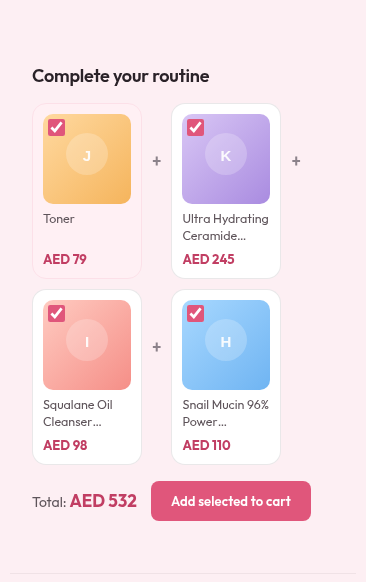
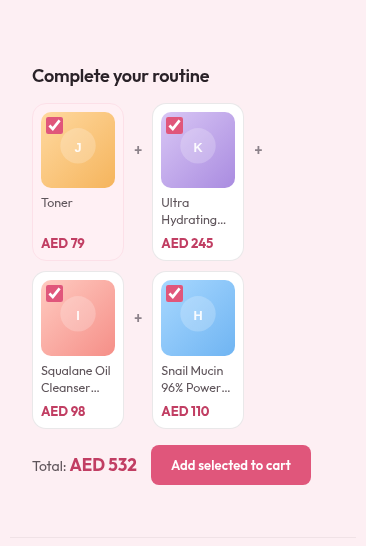
Lane CARD: two bundle tiles across a phone, not one
Measured at 320 after the FBT block got its stylesheet: the content box inside
.kbb-fbt is 230px and two tiles at the desktop thumbnail cost 2x(90+20) + a
10px gap + the `+` and its two gaps, about 254 -- so the strip wrapped to ONE
TILE PER ROW and "Complete your routine" ran to four stacked rows. Equal
height, and still not a bundle the shopper can see as a bundle, which is most
of what the module is for.

Below 400px the thumbnail is 76px and the padding 8. That is the only number
that moves: every track in the block is a calc() over its own row, so the
reservations follow it. Re-measured, one height at each width -- 157.94 at 320
and 390, 175.94 at 1280 -- and scrollWidth equals clientWidth at all three.

docs/card-shots/fbt-after-320.png is two across.

CardEqualHeightTest and StorefrontEnglishUnchangedTest: 18 passed.

Claude-Session: https://claude.ai/code/session_01CmowJLWcbxiie7sccsLiWq

diff --git a/public/build/assets/kbb-product-QkjAld9R.css b/public/build/assets/kbb-product-QkjAld9R.css
@@ -1,0 +1,1 @@
+:root{--bg:#ffffff;--cream:#FFF8F5;--pink-soft:#FFF0F4;--blush:#FCE0E8;--pink:#E0567B;--pink-deep:#C13E63;--pink-ink:#A82F53;--ink:#2A2228;--ink-2:#5E545A;--muted:#8C828A;--line:rgba(42,34,40,.1);--line-2:rgba(42,34,40,.06);--sale:#E23A4E;--gold:#BE8E2E;--green:#2E9E6B;--r-s:8px;--r-m:14px;--r-l:20px;--sh-s:0 1px 2px rgba(42,34,40,.05), 0 3px 10px rgba(42,34,40,.05);--sh-m:0 8px 26px rgba(42,34,40,.1);--sh-l:0 20px 60px rgba(42,34,40,.2);--sans:"Outfit", system-ui, -apple-system, Segoe UI, Roboto, sans-serif;--ease:cubic-bezier(.22,.61,.36,1)}*{margin:0;padding:0;box-sizing:border-box}body{font-family:var(--sans);color:var(--ink);line-height:1.5}button{font-family:inherit;cursor:pointer;border:none;background:none;color:inherit}a{color:inherit;text-decoration:none}::selection{background:var(--blush)}.wrap{max-width:var(--site-max);margin-inline:auto;padding-inline:var(--site-gutter)}.anno{background:var(--ink);color:#f6e9ee;font-size:12.5px;text-align:center;padding:8px 14px}.anno b{color:#fff}.head{position:sticky;top:0;z-index:60;background:#fff;border-bottom:1px solid var(--line-2)}.head-in{display:flex;align-items:center;gap:18px;height:68px;max-width:1180px;margin:0 auto;padding:0 20px}.logo{font-weight:800;font-size:21px;color:var(--pink-deep);letter-spacing:-.02em;white-space:nowrap}.logo span{color:var(--ink)}.search-in{flex:1;max-width:480px;display:flex;align-items:center;gap:10px;background:var(--cream);border:1.5px solid var(--line);border-radius:99px;padding:0 16px}.search-in svg{width:18px;height:18px;color:var(--muted)}.search-in input{flex:1;border:none;background:none;outline:none;font-size:14px;padding:11px 0}.tools{display:flex;align-items:center;gap:4px;margin-inline-start:auto}.tool{width:44px;height:44px;border-radius:12px;display:grid;place-items:center;position:relative;transition:.14s}.tool:hover{background:var(--pink-soft);color:var(--pink-deep)}.tool svg{width:22px;height:22px}.tool .ct{position:absolute;top:4px;inset-inline-end:4px;min-width:17px;height:17px;border-radius:99px;background:var(--pink);color:#fff;font-size:10px;font-weight:700;display:grid;place-items:center;padding:0 4px;border:2px solid #fff}.burger{display:none;width:44px;height:44px;border-radius:12px;place-items:center;color:var(--ink);background:none;border:none;cursor:pointer}.burger:hover{background:var(--pink-soft);color:var(--pink-deep)}.burger svg{width:24px;height:24px}.nav-links{display:flex;align-items:center;gap:20px}.nav-links a{color:var(--ink-2);text-decoration:none;font-size:14px;font-weight:500;white-space:nowrap;transition:.14s var(--ease)}.nav-links a:hover{color:var(--pink-deep)}.mnav{position:fixed;top:0;inset-inline-start:0;height:100%;width:300px;max-width:85vw;background:#fff;z-index:110;transform:translate(-100%);transition:.3s var(--ease);display:flex;flex-direction:column;padding:20px}[dir=rtl] .mnav{transform:translate(100%)}.mnav.on{transform:translate(0)}.mnav-h{display:flex;align-items:center;justify-content:space-between;margin-bottom:14px}.mnav-x{width:40px;height:40px;border-radius:10px;display:grid;place-items:center;font-size:20px;color:var(--ink-2);background:none;border:none;cursor:pointer}.mnav a{display:block;padding:14px 6px;color:var(--ink);text-decoration:none;font-size:15px;font-weight:500;border-bottom:1px solid var(--line-2)}.mnav a:hover{color:var(--pink-deep)}.navov{position:fixed;top:0;right:0;bottom:0;left:0;background:#2a22286b;z-index:105;opacity:0;visibility:hidden;transition:.3s var(--ease)}.navov.on{opacity:1;visibility:visible}@media (max-width:760px){.search-in,.nav-links{display:none}.burger{display:grid}.logo{font-size:17px}}.crumb{font-size:12.5px;color:var(--muted);padding:18px 0 0}.crumb a:hover{color:var(--pink-deep)}.pdp{display:grid;grid-template-columns:1.05fr 1fr;gap:42px;padding:22px 0 50px}@media (max-width:880px){.pdp{grid-template-columns:minmax(0,1fr);gap:26px}}.gallery{position:sticky;top:84px;align-self:start}@media (max-width:880px){.gallery{position:static}}.gmain{position:relative;aspect-ratio:1;border-radius:var(--r-l);display:grid;place-items:center;overflow:hidden;border:1px solid var(--line-2)}.gmain .cap{font-size:13px;font-weight:700;color:#2a22285c;letter-spacing:.04em;text-align:center;padding:0 20px}.gmain-img{position:absolute;top:0;right:0;bottom:0;left:0;width:100%;height:100%;object-fit:contain;display:block}.lbl{position:absolute;display:inline-flex;align-items:center;gap:4px;font-size:11px;font-weight:800;color:#fff;padding:5px 10px;border-radius:8px;box-shadow:0 4px 12px #00000029;z-index:2}[dir=rtl] .gmain .lbl{inset-inline-start:14px!important;inset-inline-end:auto!important}.gwish{position:absolute;top:14px;inset-inline-end:14px;width:40px;height:40px;border-radius:50%;background:#ffffffeb;-webkit-backdrop-filter:blur(4px);backdrop-filter:blur(4px);display:grid;place-items:center;z-index:3;box-shadow:var(--sh-s)}.gwish svg{width:19px;height:19px;color:var(--ink-2)}.gwish.on svg{color:var(--pink);fill:var(--pink)}.gthumbs{display:flex;gap:10px;margin-top:12px;flex-wrap:wrap}.gthumb{width:66px;height:66px;border-radius:12px;border:2px solid transparent;display:grid;place-items:center;font-size:9px;font-weight:700;color:#2a222873;cursor:pointer;transition:.14s;overflow:hidden}.gthumb.on{border-color:var(--pink)}.gthumb.vid{position:relative}.gthumb.vid:after{content:"▶";position:absolute;font-size:14px;color:#fff;background:#00000059;width:24px;height:24px;border-radius:50%;display:grid;place-items:center;z-index:2}.gthumb{position:relative}.gthumb-img{position:absolute;top:0;right:0;bottom:0;left:0;width:100%;height:100%;object-fit:cover;display:block}.bb-brand{font-size:12px;font-weight:700;color:var(--pink-deep);text-transform:uppercase;letter-spacing:.05em}.bb-title{font-size:25px;font-weight:600;letter-spacing:-.01em;line-height:1.28;margin:7px 0 11px}.cap-area{margin:2px 0 9px}.cap-area:empty{display:none}.sr-capbar{display:inline-flex;align-items:center;gap:7px;padding:5px 12px;border-radius:999px;text-decoration:none;background:var(--card,#fff);border:1px solid var(--line);font-size:13px;white-space:nowrap;line-height:1.4;cursor:pointer;transition:transform .2s var(--ease),box-shadow .2s var(--ease)}.sr-capbar:hover{transform:translateY(-1px);box-shadow:0 6px 16px -10px #00000059}.sr-cap-heart{color:#e8607f}.sr-cap-stars{letter-spacing:1px}.sr-cap-avg{font-weight:650;color:var(--ink)}.sr-cap-count{color:var(--ink-2)}@media (prefers-reduced-motion: reduce){.sr-capbar,.sr-capbar:hover{transition:none;transform:none}}.bb-rate{display:flex;align-items:center;gap:8px;font-size:13px;color:var(--ink-2);margin-bottom:14px}.stars{color:#e3d9c4;font-size:15px;letter-spacing:1px}.stars .f{color:var(--gold)}.bb-rate a{color:var(--pink-deep);text-decoration:underline}.bb-price{display:flex;align-items:baseline;gap:10px;margin-bottom:5px}.bb-price b{font-size:28px;font-weight:800}.bb-price s{font-size:17px;color:var(--muted);font-weight:500}.bb-price .off{font-size:12px;font-weight:700;color:#fff;background:var(--sale);padding:3px 8px;border-radius:7px}.bb-vat{font-size:11.5px;color:var(--muted);margin-bottom:16px}.bb-desc{font-size:14px;color:var(--ink-2);line-height:1.65;margin-bottom:20px}.pdp .bb-desc{margin-block:12px 18px}.opt-label{font-size:12.5px;font-weight:700;margin-bottom:9px;display:flex;justify-content:space-between}.opt-label span{font-weight:500;color:var(--muted)}.variants{display:flex;flex-direction:column;gap:9px;margin-bottom:22px}.variant{display:flex;align-items:center;gap:12px;border:1.5px solid var(--line);border-radius:13px;padding:13px 15px;cursor:pointer;transition:.14s}.variant:hover{border-color:var(--pink)}.variant.on{border-color:var(--pink);background:var(--pink-soft)}.variant .vr{width:18px;height:18px;border-radius:50%;border:2px solid var(--line);flex-shrink:0;display:grid;place-items:center}.variant.on .vr{border-color:var(--pink)}.variant.on .vr:after{content:"";width:9px;height:9px;border-radius:50%;background:var(--pink)}.variant .vn{font-size:13.5px;font-weight:600;flex:1}.variant .vp{font-weight:700}.variant .vp s{font-size:11px;color:var(--muted);font-weight:500;margin-inline-end:5px}.variant .vtag{font-size:10px;font-weight:700;color:var(--green);background:#e6f6ee;padding:3px 7px;border-radius:6px;margin-inline-start:6px}.variant.oos{opacity:.5;cursor:not-allowed}.variant.oos .vn{text-decoration:line-through}.variant .vtag.sold{color:var(--sale);background:#fdecee}.variant .vsw{width:22px;height:22px;border-radius:50%;flex-shrink:0;background-size:cover;background-position:center;border:1px solid var(--line)}.buyrow{display:flex;gap:12px;margin-bottom:14px}.qty{display:inline-flex;align-items:center;border:1.5px solid var(--line);border-radius:13px}.qty button{width:46px;height:54px;display:grid;place-items:center;font-size:20px;color:var(--ink-2)}.qty button:hover{color:var(--pink-deep)}.qty span{min-width:36px;text-align:center;font-size:15px;font-weight:700}.addcart{flex:1;height:54px;border-radius:13px;background:var(--pink);color:#fff;font-size:15.5px;font-weight:700;display:flex;align-items:center;justify-content:center;gap:9px;transition:.16s}.addcart:hover{background:var(--pink-deep)}.addcart svg{width:19px;height:19px}.buynow{width:100%;height:50px;border-radius:13px;border:1.5px solid var(--ink);font-weight:700;font-size:14.5px;margin-bottom:18px;transition:.14s}.buynow:hover{background:var(--ink);color:#fff}.stockline{display:flex;align-items:center;gap:8px;font-size:13px;color:var(--green);font-weight:600;margin-bottom:6px}.stockline .dot{width:8px;height:8px;border-radius:50%;background:var(--green)}.stockline.out{color:var(--sale)}.stockline.out .dot{background:var(--sale)}.deliver{font-size:13px;color:var(--ink-2);margin-bottom:18px}.deliver b{color:var(--ink)}.trust{display:grid;grid-template-columns:1fr 1fr;gap:11px;padding:16px;background:var(--cream);border-radius:14px}.trust .ti{display:flex;align-items:center;gap:9px;font-size:12px;color:var(--ink-2);font-weight:500}.trust .ti svg{width:18px;height:18px;color:var(--pink-deep);flex-shrink:0}.paychips{display:flex;gap:6px;margin-top:13px;flex-wrap:wrap}.paychips span{font-size:10.5px;font-weight:700;color:var(--ink-2);border:1px solid var(--line);border-radius:6px;padding:4px 9px}.sec{padding:34px 0;border-top:1px solid var(--line-2)}.eyebrow{font-size:11px;font-weight:700;letter-spacing:.22em;text-transform:uppercase;color:var(--pink);margin-bottom:7px}.sec h2{font-size:22px;font-weight:600;letter-spacing:-.01em;margin-bottom:18px}.acc{border:1px solid var(--line-2);border-radius:var(--r-m);overflow:hidden;max-width:820px}.acc-i{border-bottom:1px solid var(--line-2)}.acc-i:last-child{border-bottom:0}.acc-h{width:100%;display:flex;align-items:center;justify-content:space-between;padding:17px 20px;font-size:14.5px;font-weight:600;text-align:start}.acc-h:hover{color:var(--pink-deep)}.acc-h .pm{font-size:20px;color:var(--pink-deep);transition:.2s}.acc-i.open .acc-h .pm{transform:rotate(45deg)}.acc-b{max-height:0;overflow:hidden;transition:max-height .3s var(--ease)}.acc-b-in{padding:0 20px 20px;font-size:13.5px;color:var(--ink-2);line-height:1.7}.acc-b-in ul{margin:6px 0 0 18px}.acc-b-in li{margin-bottom:5px}.rev-top{display:grid;grid-template-columns:200px 1fr;gap:34px;align-items:center;max-width:760px;margin-bottom:26px}@media (max-width:600px){.rev-top{grid-template-columns:1fr;gap:16px}}.rev-score{text-align:center}.rev-score .big{font-size:48px;font-weight:800;line-height:1}.rev-score .stars{font-size:18px}.rev-score small{color:var(--muted);font-size:12.5px}.rbar{display:flex;align-items:center;gap:10px;font-size:12px;color:var(--ink-2);margin-bottom:6px}.rbar .t{width:38px}.rbar .track{flex:1;height:7px;background:var(--pink-soft);border-radius:99px;overflow:hidden}.rbar .track i{display:block;height:100%;background:var(--gold);border-radius:99px}.rbar .n{width:34px;text-align:end;color:var(--muted)}.review{padding:18px 0;border-top:1px solid var(--line-2);max-width:760px}.review .rh{display:flex;align-items:center;gap:10px;margin-bottom:7px}.review .av{width:36px;height:36px;border-radius:50%;background:var(--pink-soft);color:var(--pink-deep);display:grid;place-items:center;font-weight:700;font-size:13px}.review .nm{font-size:13.5px;font-weight:600}.review .vf{font-size:10.5px;font-weight:700;color:var(--green);background:#e6f6ee;padding:2px 7px;border-radius:6px}.review .dt{font-size:11.5px;color:var(--muted);margin-inline-start:auto}.review .rt{font-size:13.5px;color:var(--ink-2);line-height:1.65}.writebtn{margin-top:18px;border:1.5px solid var(--pink);color:var(--pink-deep);font-weight:600;font-size:14px;padding:11px 22px;border-radius:99px}.writebtn:hover{background:var(--pink-soft)}.dtabbar{display:flex;gap:4px;border-bottom:1px solid var(--line-2);margin-bottom:18px;overflow-x:auto}.dtab{font-size:14px;font-weight:600;color:var(--ink-2);padding:12px 16px;border-bottom:2px solid transparent;white-space:nowrap}.dtab:hover{color:var(--pink-deep)}.dtab.on{color:var(--pink-deep);border-color:var(--pink)}.dpanel{max-width:820px}.dcontent{font-size:13.5px;color:var(--ink-2);line-height:1.7;position:relative}.dcontent.clamp{max-height:104px;overflow:hidden}.dcontent.clamp:after{content:"";position:absolute;inset-inline-start:0;inset-inline-end:0;bottom:0;height:56px;background:linear-gradient(transparent,#fff)}.dcontent ul{margin:6px 0 0 18px}.dcontent li{margin-bottom:5px}.readmore{margin-top:11px;color:var(--pink-deep);font-weight:600;font-size:13px}.readmore:hover{text-decoration:underline}.macc{display:none}.macc-i{border-bottom:1px solid var(--line-2)}.macc-h{width:100%;display:flex;align-items:center;justify-content:space-between;padding:15px 2px;font-size:14.5px;font-weight:600;text-align:start}.macc-h .pm{position:relative;flex:0 0 auto;width:15px;height:15px;margin-inline-start:12px;font-size:0;line-height:0;color:transparent}.macc-h .pm:before,.macc-h .pm:after{content:"";position:absolute;top:50%;inset-inline-start:0;width:15px;height:2px;margin-top:-1px;border-radius:2px;background:var(--pink-deep);transition:transform .2s var(--ease)}.macc-h .pm:after{transform:rotate(90deg)}.macc-i.open .macc-h .pm{transform:none}.macc-i.open .macc-h .pm:after{transform:rotate(0)}.macc-b{display:none;padding:0 2px 16px}.macc-i.open .macc-b{display:block}@media (max-width:720px){.dtabbar,.dpanel{display:none}.macc{display:block}}.rfilters{display:flex;flex-wrap:wrap;gap:7px;margin-bottom:18px}.rfilter{font-size:12.5px;font-weight:600;color:var(--ink-2);padding:7px 13px;border-radius:99px;border:1px solid var(--line);background:#fff;transition:.14s}.rfilter:hover{border-color:var(--pink)}.rfilter.on{background:var(--pink-soft);color:var(--pink-deep);border-color:transparent}.rgrid{column-count:4;column-gap:16px}@media (max-width:1080px){.rgrid{column-count:3}}@media (max-width:760px){.rgrid{column-count:2;column-gap:12px}}.rcard{break-inside:avoid;-webkit-column-break-inside:avoid;border:1px solid var(--line-2);border-radius:14px;padding:14px;cursor:pointer;transition:.16s;background:#fff;margin:0 0 16px;display:flex;flex-direction:column;gap:8px}.rcard:hover{box-shadow:var(--sh-m)}.rcard .rh{display:flex;align-items:center;gap:8px}.rcard .av{width:30px;height:30px;border-radius:50%;background:var(--pink-soft);color:var(--pink-deep);display:grid;place-items:center;font-weight:700;font-size:11px;flex-shrink:0}.rcard .nm{font-size:12.5px;font-weight:600;line-height:1.1}.rcard .vf{font-size:9.5px;font-weight:700;color:var(--green)}.rcard .rstars{font-size:12px;margin-inline-start:auto;flex-shrink:0}.rphotos{display:flex;gap:5px;flex-wrap:wrap}.rphotos .rp{width:46px;height:46px;border-radius:8px;position:relative;overflow:hidden;flex-shrink:0}.rphotos .more{position:absolute;top:0;right:0;bottom:0;left:0;background:#2a222885;color:#fff;display:grid;place-items:center;font-weight:700;font-size:12px}.rcard .rtext{font-size:12.5px;color:var(--ink-2);line-height:1.55}.rcard .rf{display:flex;align-items:center;justify-content:space-between;font-size:11px;color:var(--muted)}.rcard .cnt{display:inline-flex;align-items:center;gap:4px}.sheet-bg{position:fixed;top:0;right:0;bottom:0;left:0;background:#2a222880;-webkit-backdrop-filter:blur(3px);backdrop-filter:blur(3px);z-index:100;opacity:0;visibility:hidden;transition:.25s}.sheet-bg.on{opacity:1;visibility:visible}.sheet{position:fixed;inset-inline-start:0;inset-inline-end:0;bottom:0;background:#fff;z-index:101;border-radius:22px 22px 0 0;max-height:92vh;overflow-y:auto;transform:translateY(100%);transition:.32s var(--ease);box-shadow:var(--sh-l)}.sheet.on{transform:none}.sheet .sh-h{display:flex;align-items:center;padding:20px 22px 8px;max-width:520px;margin:0 auto}.sheet .sh-h b{font-size:18px;font-weight:700}.sheet .sh-h .x{margin-inline-start:auto;width:36px;height:36px;border-radius:9px;display:grid;place-items:center;color:var(--ink-2);font-size:18px}.sheet .sh-b{padding:8px 22px 26px;max-width:520px;margin:0 auto}.sheet .fld{margin-bottom:14px}.sheet .fld label{display:block;font-size:12.5px;font-weight:600;margin-bottom:6px}.sheet .fld input,.sheet .fld textarea{width:100%;border:1.5px solid var(--line);border-radius:11px;padding:11px 13px;font-size:14px;font-family:inherit}.sheet .fld input:focus,.sheet .fld textarea:focus{outline:0;border-color:var(--pink);box-shadow:0 0 0 3px var(--pink-soft)}.starpick{display:flex;gap:4px;font-size:30px;color:#e3d9c4;cursor:pointer}.starpick span.on{color:var(--gold)}.photodrop{border:1.5px dashed var(--line);border-radius:12px;padding:18px;text-align:center;color:var(--muted);font-size:12.5px;cursor:pointer}.cap-row{display:flex;align-items:center;gap:10px;font-size:14px;font-weight:600}.cap-row input{width:88px}.sheet .submit{width:100%;height:52px;border-radius:13px;background:var(--pink);color:#fff;font-size:15px;font-weight:700;margin-top:6px}.sheet .submit:hover{background:var(--pink-deep)}.hp{position:absolute;left:-9999px}[dir=rtl] .hp{inset-inline-start:-9999px;inset-inline-end:auto}.rpbg{position:fixed;top:0;right:0;bottom:0;left:0;background:#2a22288c;-webkit-backdrop-filter:blur(4px);backdrop-filter:blur(4px);z-index:100;display:none;place-items:center;padding:20px}.rpbg.on{display:grid}.rpm{background:#fff;border-radius:18px;max-width:540px;width:100%;max-height:88vh;overflow-y:auto;position:relative;padding:26px}.rpm .rpx{position:absolute;top:14px;inset-inline-end:14px;width:42px;height:42px;border-radius:50%;background:var(--cream);display:grid;place-items:center;font-size:22px;color:var(--ink-2)}.rpm .rpx:hover{background:var(--pink-soft);color:var(--pink-deep)}.rpgal{display:grid;grid-template-columns:repeat(3,1fr);gap:8px;margin-top:16px}.rpgal .rp{aspect-ratio:1;border-radius:10px;cursor:zoom-in}.lb{position:fixed;top:0;right:0;bottom:0;left:0;background:#000000db;z-index:110;display:none;place-items:center;padding:24px}.lb.on{display:grid}.lb .lbimg{width:min(80vw,540px);aspect-ratio:1;border-radius:14px}.lb .lbx{position:absolute;top:18px;inset-inline-end:24px;color:#fff;font-size:36px;line-height:1}@media (max-width:940px){.wrap>.sr{padding-inline-start:0;padding-inline-end:0}}.rel{--kbb-gap:18px}@media (max-width:600px){.rel{--kbb-gap:10px}}.pc{background:#fff;border:1px solid var(--line-2);border-radius:var(--r-m);overflow:hidden;transition:.18s var(--ease);display:flex;flex-direction:column}.pc:hover{box-shadow:var(--sh-m);transform:translateY(-3px)}.pc .ph{position:relative;aspect-ratio:1;display:grid;place-items:center}.pc .binit{font-size:12px;font-weight:800;color:#2a222852;text-align:center;padding:0 10px}.cbody{padding:12px 13px 14px;display:flex;flex-direction:column;gap:3px;flex:1}.cbrand{font-size:11px;font-weight:700;color:var(--pink-deep);text-transform:uppercase;letter-spacing:.04em}.cname{font-size:13px;font-weight:500;line-height:1.32;display:-webkit-box;-webkit-line-clamp:2;-webkit-box-orient:vertical;overflow:hidden;min-height:34px}.cprice{margin-top:4px;font-size:15px;font-weight:700}.cprice s{color:var(--muted);font-weight:500;font-size:12px;margin-inline-start:6px}.addbtn{margin-top:10px;height:38px;border-radius:10px;background:var(--ink);color:#fff;font-size:12.5px;font-weight:600}.addbtn:hover{background:var(--pink-deep)}.stickybar{position:fixed;bottom:0;inset-inline-start:0;inset-inline-end:0;background:#fff;border-top:1px solid var(--line);box-shadow:0 -8px 26px #2a222814;z-index:70;transform:translateY(110%);transition:.28s var(--ease);padding:11px 0}.stickybar.show{transform:none}.stickybar .in{max-width:1180px;margin:0 auto;padding:0 20px;display:flex;align-items:center;gap:16px}.stickybar .si{display:flex;align-items:center;gap:12px;min-width:0;flex:1}.stickybar .sth{width:46px;height:46px;border-radius:10px;display:grid;place-items:center;font-size:10px;font-weight:800;color:#2a222866;flex-shrink:0}.stickybar .snm{font-size:13px;font-weight:600;white-space:nowrap;overflow:hidden;text-overflow:ellipsis}.stickybar .sp{font-size:14px;font-weight:800}.stickybar .addcart{max-width:280px;height:46px}@media (max-width:600px){.stickybar .si .snm,.stickybar .sth{display:none}}.stickybar{background:var(--sb-bg,#fff)}.stickybar .addcart{background:var(--sb-btn-bg,var(--ink));color:var(--sb-btn-fg,#fff);border-radius:var(--sb-radius,99px);border:0;display:flex;align-items:center;justify-content:center;gap:8px;font:700 13px inherit;padding:0 22px;cursor:pointer;flex-shrink:0}.stickybar .addcart svg{width:17px;height:17px}.sb-ph{display:block}@media (min-width:901px){.sb-ph{display:none}}.sb-pt{display:block}@media (min-width:1181px){.sb-pt{display:none}}.sb-all{display:block}.scrim{position:fixed;top:0;right:0;bottom:0;left:0;background:#2a22286b;-webkit-backdrop-filter:blur(2px);backdrop-filter:blur(2px);z-index:90;opacity:0;visibility:hidden;transition:.25s}.scrim.on{opacity:1;visibility:visible}.dw{position:fixed;top:0;inset-inline-end:0;height:100%;width:410px;max-width:92vw;background:#fff;z-index:95;display:flex;flex-direction:column;transform:translate(100%);transition:.3s var(--ease);box-shadow:var(--sh-l)}[dir=rtl] .dw{transform:translate(-100%)}.dw.on{transform:none}.dwh{display:flex;align-items:center;gap:10px;padding:18px 20px;border-bottom:1px solid var(--line-2)}.dwh b{font-size:16px;font-weight:700}.dwh .x{margin-inline-start:auto;width:34px;height:34px;border-radius:9px;display:grid;place-items:center;color:var(--ink-2)}.dwh .x:hover{background:var(--pink-soft);color:var(--pink-deep)}.dwb{flex:1;overflow-y:auto;padding:18px 20px}.dwf{padding:16px 20px;border-top:1px solid var(--line-2)}.fship{background:var(--pink-soft);border-radius:12px;padding:12px 14px;margin-bottom:16px;font-size:12.5px;color:var(--pink-ink)}.fbar{height:7px;background:#fff;border-radius:99px;margin-top:8px;overflow:hidden}.fbar i{display:block;height:100%;background:linear-gradient(90deg,var(--pink),var(--pink-deep));border-radius:99px;transition:.4s}.ci{display:flex;gap:12px;padding:13px 0;border-bottom:1px solid var(--line-2)}.ci .cth{width:60px;height:60px;border-radius:10px;display:grid;place-items:center;font-size:10px;font-weight:800;color:#2a222866;flex-shrink:0}.ci .cn2{font-size:13px;font-weight:500;line-height:1.3}.ci .cb2{font-size:11px;color:var(--pink-deep);font-weight:700;text-transform:uppercase}.ci .cp2{font-size:13px;font-weight:700;margin-top:3px}.miniqty{display:inline-flex;align-items:center;border:1px solid var(--line);border-radius:8px;margin-top:7px}.miniqty button{width:26px;height:26px;color:var(--ink-2)}.miniqty span{min-width:26px;text-align:center;font-size:12.5px;font-weight:600}.sumrow{display:flex;justify-content:space-between;font-size:14px;margin-bottom:7px}.sumrow.tot{font-size:17px;font-weight:800;margin:10px 0 4px}.cobtn{width:100%;height:50px;border-radius:12px;background:var(--pink);color:#fff;font-size:15px;font-weight:700}.cobtn:hover{background:var(--pink-deep)}.paybadges{display:flex;gap:6px;justify-content:center;margin-top:10px}.paybadges span{border:1px solid var(--line);border-radius:6px;padding:3px 7px;font-weight:600;color:var(--ink-2);font-size:10.5px}.empty{text-align:center;padding:50px 20px;color:var(--muted)}.empty b{display:block;color:var(--ink);font-size:16px;margin-bottom:6px}.toast{position:fixed;bottom:84px;left:50%;transform:translate(-50%) translateY(20px);background:var(--ink);color:#fff;font-size:13.5px;font-weight:500;padding:13px 20px;border-radius:12px;box-shadow:var(--sh-l);z-index:120;opacity:0;transition:.25s var(--ease);pointer-events:none;display:flex;align-items:center;gap:9px}.toast.on{opacity:1;transform:translate(-50%) translateY(0)}.toast svg{width:17px;height:17px;color:#7be0a8}.footer{background:var(--cream);border-top:1px solid var(--line-2);padding:40px 0;text-align:center;color:var(--muted);font-size:12.5px;margin-bottom:74px}.catbar{position:sticky;top:68px;z-index:59;background:#fff;border-bottom:1px solid var(--line-2)}.catbar-in{display:flex;align-items:center;gap:0;height:46px}.cat{position:relative;display:flex;align-items:center;gap:4px;padding:0 11px;height:46px;font-size:13.5px;font-weight:500;color:var(--ink);text-decoration:none;white-space:nowrap;cursor:pointer;transition:.14s var(--ease)}.cat .chev{width:12px;height:12px;transition:.2s var(--ease)}.cat.has-mega:hover .chev{transform:rotate(180deg)}.cat.sale{color:var(--sale);font-weight:700;letter-spacing:.01em}.cat.sale:hover{color:#b02a3b}.mega{position:absolute;top:100%;inset-inline-start:0;background:#fff;border:1px solid var(--line);border-top:2px solid var(--pink);border-radius:0 0 14px 14px;box-shadow:var(--sh-l);padding:14px;display:none;z-index:120;animation:mfade .16s var(--ease)}@keyframes mfade{0%{opacity:0;transform:translateY(-6px)}to{opacity:1;transform:none}}.cat.has-mega:hover .mega{display:block}.mega-title{font-size:10px;font-weight:600;text-transform:uppercase;letter-spacing:.09em;color:var(--muted);padding:2px 10px 8px}.mega a{display:block;padding:8px 10px;border-radius:8px;font-size:13px;font-weight:400;color:var(--ink-2);text-decoration:none;white-space:nowrap}.mega-skin{min-width:220px}.mega-all{color:var(--pink-deep)!important;font-weight:600!important;margin-top:4px;border-top:1px solid var(--line-2)}.mega-brands{inset-inline-end:0;inset-inline-start:auto;grid-template-columns:170px 1fr;gap:12px;width:min(760px,86vw)}.cat.has-mega:hover .mega-brands{display:grid}.mega-brands .mcol-trend{border-inline-end:1px solid var(--line-2);padding-inline-end:8px}.mega-brands .bgrid{display:grid;grid-template-columns:repeat(4,1fr);gap:0 6px;max-height:56vh;overflow:auto}.mega-brands .bgrid a{font-size:12.5px;padding:6px 8px}.mnav{overflow-y:auto}.mnav details summary{list-style:none;cursor:pointer;padding:14px 6px;font-size:15px;font-weight:500;color:var(--ink);border-bottom:1px solid var(--line-2);display:flex;justify-content:space-between;align-items:center}.mnav details summary::-webkit-details-marker{display:none}.mnav details summary:after{content:"+";color:var(--muted);font-size:18px}.mnav details[open] summary:after{content:"–"}.mnav .msub{padding:4px 0 8px}.mnav .msub a{padding:11px 6px 11px 18px;font-size:14px;font-weight:400;border-bottom:1px solid var(--line-2)}.mnav .msale{color:var(--sale);font-weight:700}@media (max-width:1024px){.catbar{display:none}.burger{display:grid}}.catbar{background:#fff;border-bottom:1px solid var(--line-2)}.catbar-in{gap:3px;height:52px}.cat{font-size:13px;font-weight:500;letter-spacing:.015em;padding:0 13px;height:52px;color:var(--ink-2)}.cat:hover{color:var(--pink-deep)}.cat:after{content:"";position:absolute;inset-inline-start:13px;inset-inline-end:13px;bottom:9px;height:2px;background:var(--pink);border-radius:2px;transform:scaleX(0);transform-origin:center;transition:transform .22s var(--ease)}.cat:not(.sale):hover:after{transform:scaleX(1)}.cat .chev{opacity:.55}.cat.sale{color:var(--sale);font-weight:600;background:var(--pink-soft);border-radius:99px;height:30px;padding:0 14px;margin:0 6px;align-self:center;letter-spacing:.02em}.cat.sale:hover{background:var(--sale);color:#fff}.cat.sale:after{display:none}.mega{border:1px solid var(--line-2);border-top:2px solid var(--pink);border-radius:0 0 16px 16px;box-shadow:0 22px 48px #2a222826;padding:18px}.mega-title{color:var(--pink-deep);letter-spacing:.1em}.mega a{border-radius:10px}.mega a:hover{background:var(--pink-soft);color:var(--pink-deep)}.mega-brands{border-radius:0 0 16px 16px}.crumb{overflow-wrap:anywhere}.pdp .bb-head{display:grid;grid-template-columns:minmax(0,1fr) auto;column-gap:16px;align-items:start;margin-block:8px 0}.pdp .bb-head .bb-title{margin:0;overflow-wrap:anywhere}.pdp .bb-title{font-size:19px;font-weight:500;line-height:1.36;letter-spacing:-.005em}.pdp .bb-head .bb-price{display:block;text-align:end;white-space:nowrap;line-height:1.15;margin:0}.pdp .bb-head .bb-price s{display:block;font-size:12.5px;font-weight:500;color:var(--muted);opacity:1}.pdp .bb-head .bb-price .now{display:block;font-size:22px;font-weight:800;letter-spacing:-.02em}.pdp .bb-head .bb-price .off{display:inline-block;margin-block-start:4px;font-size:10px;font-weight:700;padding:2px 6px}.pdp .bb-vat{font-size:11px;color:var(--muted);margin-block-start:4px}.pdp .cap-area{margin-block:10px 0}.pdp .cap-area .sr-capbar{background:none;border:0;border-radius:0;padding:0;box-shadow:none;gap:8px;font-size:12px;color:var(--muted)}.pdp .cap-area .sr-capbar:hover{transform:none;box-shadow:none}.pdp .cap-area .sr-cap-heart{display:none}.pdp .cap-area .sr-cap-avg{font-weight:700;color:var(--ink);font-size:12.5px}.pdp .cap-area .sr-cap-count{color:var(--muted);text-decoration:underline;text-underline-offset:2px}.pdp .bb-rate{margin-block:10px 0;font-size:12px;color:var(--muted)}.pdp .bb-ratebar{flex:0 1 96px;min-inline-size:44px;block-size:3px;border-radius:2px;background:var(--line-2);overflow:hidden}.pdp .bb-ratebar i{display:block;block-size:100%;background:var(--pink);border-start-end-radius:2px;border-end-end-radius:2px}.pdp .bb-morebox{position:absolute;inline-size:1px;block-size:1px;opacity:0;pointer-events:none}.pdp .bb-desc{font-size:13.5px;line-height:1.62;color:var(--ink-2);border-block-start:1px solid var(--line-2);margin-block:20px 0;padding-block-start:20px;max-block-size:calc(4.86em + 20px);overflow:hidden;-webkit-mask-image:linear-gradient(to bottom,#000 calc(1.95 * 1.62em + 20px),transparent calc(4.86em + 20px));mask-image:linear-gradient(to bottom,#000 calc(1.95 * 1.62em + 20px),transparent calc(4.86em + 20px))}.pdp .bb-more{display:inline-flex;align-items:center;gap:4px;margin-block-start:6px;font-size:12px;font-weight:700;color:var(--pink-deep);cursor:pointer}.pdp .bb-morebox:checked~.bb-desc{max-block-size:none;-webkit-mask-image:none;mask-image:none}.pdp .bb-morebox:checked~.bb-more{display:none}.pdp .opt-label{border-block-start:1px solid var(--line-2);margin-block:20px 9px;padding-block-start:20px}.pdp .stockline{border-block-start:1px solid var(--line-2);margin-block:20px 10px;padding-block-start:20px}.pdp .trust{background:none;padding:0;border-radius:0;grid-template-columns:minmax(0,1fr);gap:10px;border-block-start:1px solid var(--line-2);margin-block-start:22px;padding-block-start:20px}.pdp .trust .ti{font-size:12.5px}.pdp .paychips{margin-block-start:12px}.pdp .variants{margin-block-end:0}.pdp .variant{border-radius:12px;padding-block:11px}.pdp .addcart[disabled],.pdp .addcart[disabled]:hover{background:var(--muted);cursor:not-allowed}@media (max-width:880px){.pdp .gallery{margin-inline:calc(var(--site-gutter,22px) * -1)}.pdp .gmain{border-radius:0;border:0}.pdp .gthumbs{margin-block-start:-30px;padding-inline:var(--site-gutter,22px);position:relative;z-index:2;gap:8px;flex-wrap:nowrap;overflow-x:auto;scrollbar-width:none;scroll-snap-type:x mandatory;padding-block-end:2px}.pdp .gthumbs::-webkit-scrollbar{display:none}.pdp .gthumb{flex:0 0 auto;scroll-snap-align:start;width:56px;height:56px;border-radius:10px;box-shadow:var(--sh-s);background-color:#fff}.pdp .buybox{padding-block-start:22px}}.details .dtabbar{gap:22px;border-block-end:1px solid var(--line-2);margin-block-end:18px;overflow-x:auto;scrollbar-width:none;scroll-snap-type:x proximity}.details .dtabbar::-webkit-scrollbar{display:none}.details .dtab{flex:0 0 auto;scroll-snap-align:start;padding:0 0 12px;margin-block-end:-1px;border-block-end:2px solid transparent;font-size:13.5px;font-weight:600;color:var(--ink);opacity:.38;transition:opacity .15s,color .15s}.details .dtab:hover{opacity:.7;color:var(--ink)}.details .dtab.on{opacity:1;font-weight:700;color:var(--ink);border-block-end-color:var(--ink)}@media (max-width:720px){.details .dtabbar{display:flex;margin-inline:calc(var(--site-gutter,22px) * -1);padding-inline:var(--site-gutter,22px);-webkit-mask-image:linear-gradient(to right,#000 calc(100% - 34px),transparent);mask-image:linear-gradient(to right,#000 calc(100% - 34px),transparent)}.details .dpanel{display:block}.details .macc{display:none}[dir=rtl] .details .dtabbar{-webkit-mask-image:linear-gradient(to left,#000 calc(100% - 34px),transparent);mask-image:linear-gradient(to left,#000 calc(100% - 34px),transparent)}}.details .dcontent.clamp:after{display:none}.details .dcontent.clamp{-webkit-mask-image:linear-gradient(to bottom,#000 76px,transparent 104px);mask-image:linear-gradient(to bottom,#000 76px,transparent 104px)}@media (min-width:881px){.pdp .bb-title{font-size:30px;font-weight:500;line-height:1.24}.pdp .bb-head .bb-price .now{font-size:22px}.pdp .gallery{margin-inline:calc(var(--site-gutter,22px) * -1) 0}.pdp .gmain{border-radius:0;border:0}.pdp .gthumbs{margin-block-start:14px;padding-inline:var(--site-gutter,22px) 0}.pdp .gthumb{box-shadow:none}}.kbb-fbt{max-width:var(--site-max,1180px);margin:34px auto 0;padding-inline:var(--site-gutter,22px)}.kbb-fbt-title{font-size:18px;font-weight:600;letter-spacing:-.01em;margin-block-end:14px}.kbb-fbt-items{--fbt-thumb:90px;--fbt-pad:10px;--fbt-name-fs:12.5px;--fbt-name-lh:1.35;--fbt-name-lines:2;--fbt-name-slot:calc(var(--fbt-name-fs) * var(--fbt-name-lh) * var(--fbt-name-lines));--fbt-price-fs:13px;--fbt-price-lh:1.4;--fbt-price-slot:calc(var(--fbt-price-fs) * var(--fbt-price-lh));display:flex;flex-wrap:wrap;align-items:flex-start;gap:10px}.kbb-fbt-item{position:relative;display:grid;grid-template-rows:var(--fbt-thumb) var(--fbt-name-slot) var(--fbt-price-slot);row-gap:6px;width:calc(var(--fbt-thumb) + var(--fbt-pad) * 2);padding:var(--fbt-pad);border:1px solid var(--line);border-radius:var(--r-m,14px);background:#fff;cursor:pointer}.kbb-fbt-item.is-main{border-color:var(--blush);background:var(--pink-soft)}.kbb-fbt-item img,.kbb-fbt-item .ph-fallback{width:var(--fbt-thumb);height:var(--fbt-thumb);object-fit:cover;border-radius:10px;display:block}.kbb-fbt-name{display:-webkit-box;-webkit-line-clamp:var(--fbt-name-lines);-webkit-box-orient:vertical;overflow:hidden;font-size:var(--fbt-name-fs);line-height:var(--fbt-name-lh);color:var(--ink-2)}.kbb-fbt-price{font-size:var(--fbt-price-fs);line-height:calc(var(--fbt-price-fs) * var(--fbt-price-lh));font-weight:700;color:var(--pink-deep)}.kbb-fbt-cb{position:absolute;inset-block-start:calc(var(--fbt-pad) + 5px);inset-inline-start:calc(var(--fbt-pad) + 5px);width:17px;height:17px;margin:0;accent-color:var(--pink);cursor:pointer}.kbb-fbt-plus{align-self:flex-start;padding-block-start:calc(var(--fbt-pad) + var(--fbt-thumb) / 2 - .6em);font-size:17px;font-weight:600;color:var(--muted);-webkit-user-select:none;user-select:none}.kbb-fbt-foot{display:flex;flex-wrap:wrap;align-items:center;gap:14px;margin-block-start:16px}.kbb-fbt-total{font-size:14px;color:var(--ink-2)}.kbb-fbt-sum{font-size:17px;color:var(--pink-deep)}.kbb-fbt-add{background:var(--pink);color:#fff;border-radius:var(--r-s,8px);padding:12px 20px;font-size:13px;font-weight:600;letter-spacing:.01em;transition:background .18s var(--ease)}.kbb-fbt-add:hover{background:var(--pink-deep)}@media (max-width:400px){.kbb-fbt-items{--fbt-thumb:76px;--fbt-pad:8px}.kbb-fbt-plus{font-size:15px}}

diff --git a/resources/css/kbb/kbb-product.css b/resources/css/kbb/kbb-product.css
@@ -1095,3 +1095,19 @@ a{color:inherit;text-decoration:none}
     transition:background .18s var(--ease);
 }
 .kbb-fbt-add:hover{background:var(--pink-deep)}
+
+/* ── TWO BUNDLE TILES ACROSS A PHONE, NOT ONE ─────────────────── Lane CARD ──
+   Measured at 320: the content box inside `.kbb-fbt` is 230px, and two tiles at
+   the desktop thumbnail cost 2×(90+20) + 10 gap + the `+` and its two gaps ≈
+   254 — so the strip wrapped to ONE TILE PER ROW and the block ran to four
+   stacked rows. A bundle the shopper cannot see as a bundle is most of what
+   this module is for.
+
+   The thumbnail is the only number that moves, and every track above is a
+   calc() over its own row, so the reservation follows it and the heights stay
+   equal — re-measured after: one height at 320, 390 and 1280. Nothing else in
+   the block is width-dependent. */
+@media (max-width:400px){
+    .kbb-fbt-items{--fbt-thumb:76px;--fbt-pad:8px}
+    .kbb-fbt-plus{font-size:15px}
+}
